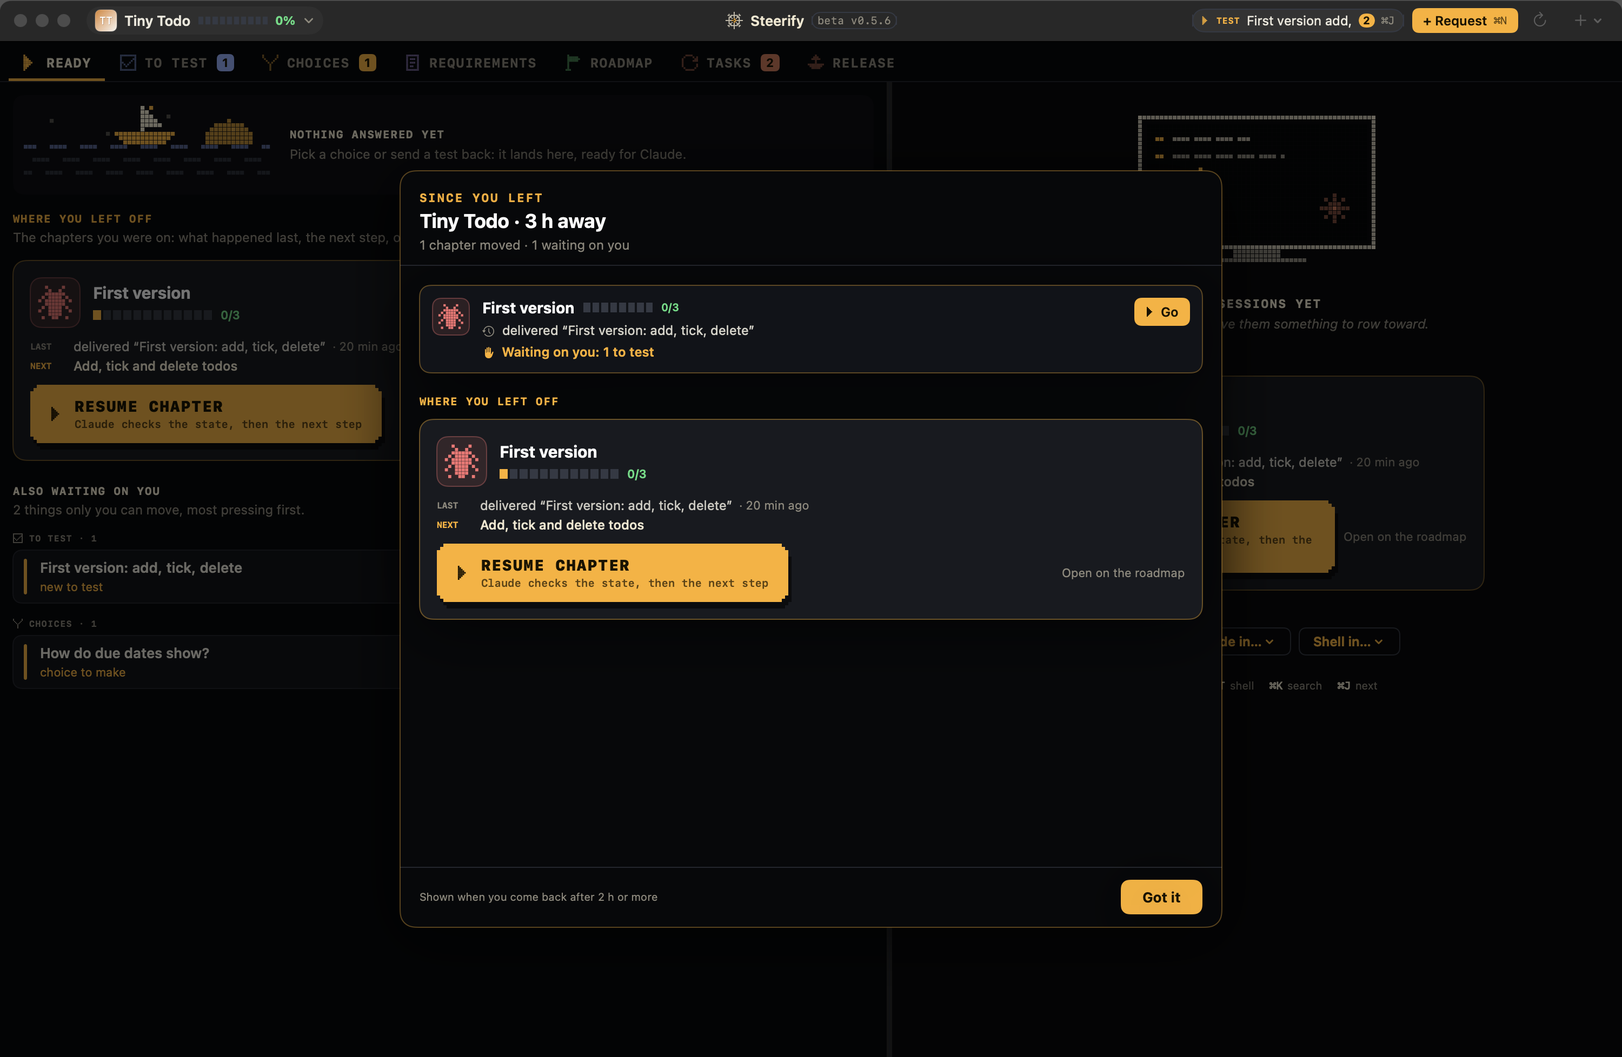
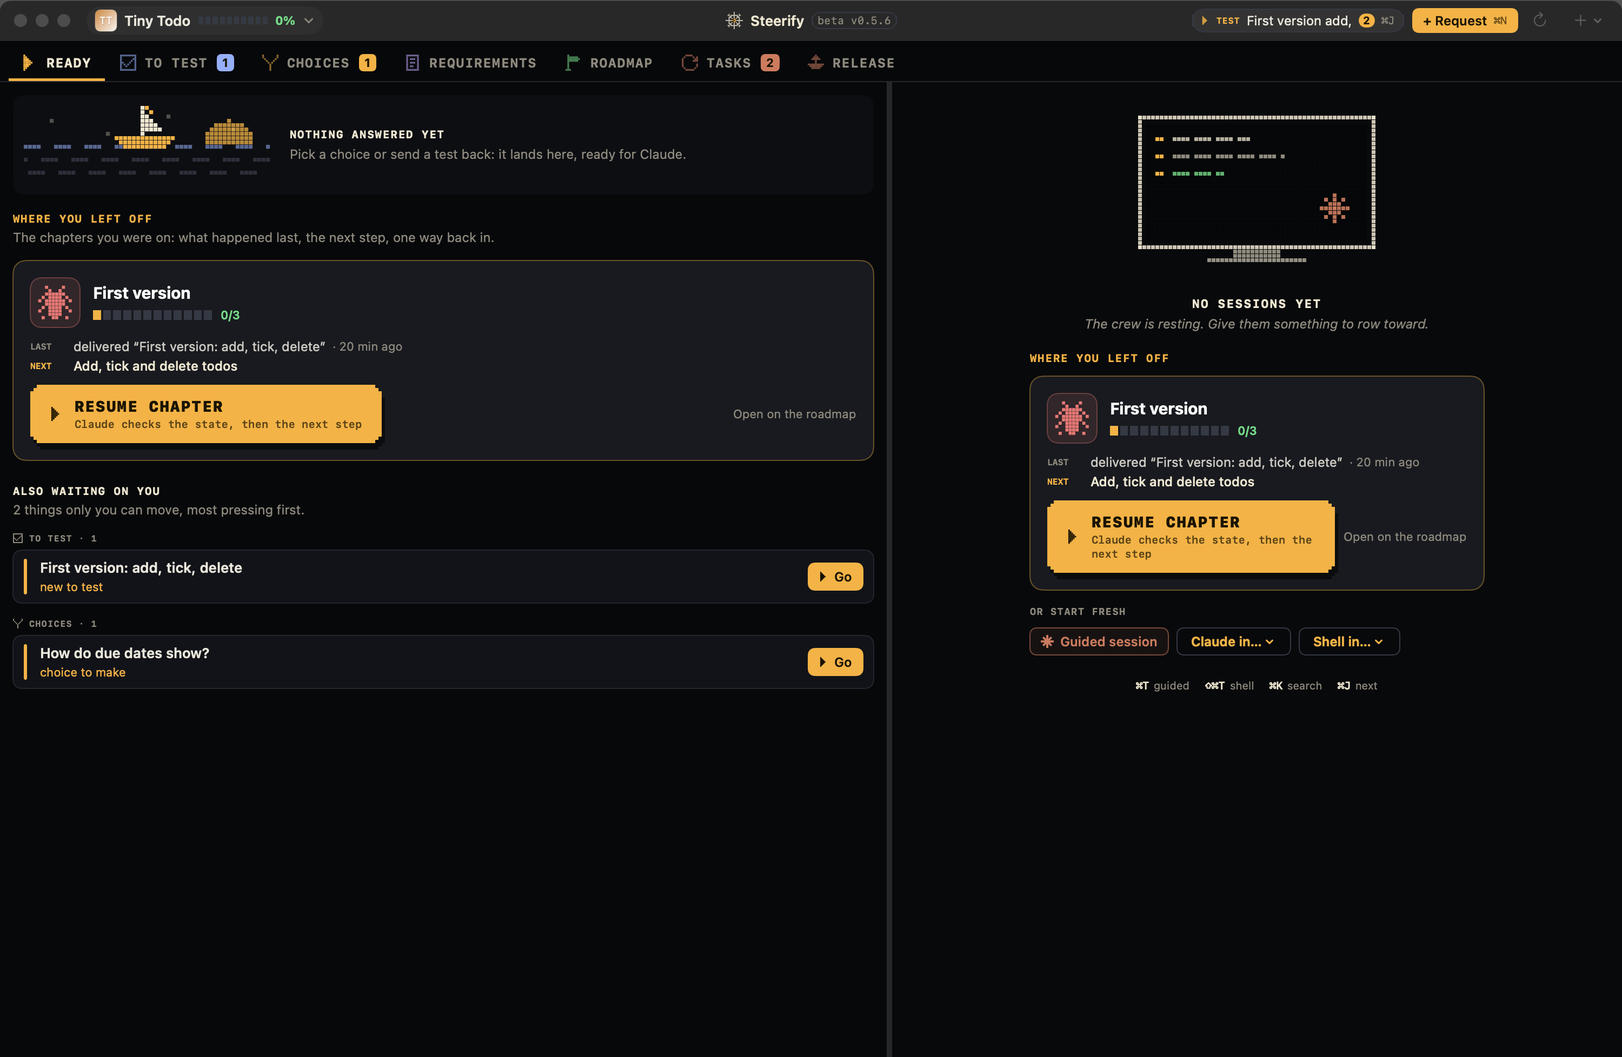
Steerify 0.5.6 (sync 13f6ef6)

diff --git a/Sources/SteerApp/BoardViews.swift b/Sources/SteerApp/BoardViews.swift
@@ -1118,17 +1118,16 @@ struct RoadTrackView: View {
     /// Done rows are folded by default (nil = auto: open only when the list shows no open row, e.g. the Done filter).
     @State private var showDone: Bool? = nil
     /// Chapters folded to one line, remembered per project (your focus: what you keep open stays open).
-    @AppStorage private var collapsedRaw: String
+    /// The click flips this view's own state (what redraws the row); ChapterFolds only remembers it. Driving the fold from
+    /// outside the view (@AppStorage, then a shared store) saved it but the roadmap list never redrew the row (21 Nov).
+    @State private var foldedNow: Bool? = nil
     init(board: BoardStore, track: String, items: [RoadItem]) {
         self.board = board; self.track = track; self.items = items
-        _collapsedRaw = AppStorage(wrappedValue: "", "collapsedChapters." + board.project.id, store: Prefs.store)
     }
-    private var collapsedSet: Set<String> { Set(collapsedRaw.split(separator: "\n").map(String.init)) }
-    private var collapsed: Bool { collapsedSet.contains(BoardFiles.slug(track)) }
+    private var collapsed: Bool { foldedNow ?? ChapterFolds.shared.isFolded(board.project.id, BoardFiles.slug(track)) }
     private func setCollapsed(_ on: Bool) {
-        var c = collapsedSet; let k = BoardFiles.slug(track)
-        if on { c.insert(k) } else { c.remove(k) }
-        withAnimation(.easeOut(duration: 0.15)) { collapsedRaw = c.sorted().joined(separator: "\n") }
+        foldedNow = on
+        ChapterFolds.shared.set(board.project.id, BoardFiles.slug(track), folded: on)
     }
     @ObservedObject private var snaps = MockSnapshots.shared
     private var info: Chapter? { board.chapters.first { $0.name == track } }
@@ -1243,33 +1242,42 @@ struct RoadTrackView: View {
         let all = board.roadmap.filter { $0.track == track }
         let done = all.filter { $0.status == "done" }.count
         let prog = ChapterProgress(all)
-        if collapsed { compact(all, prog) } else { full(all, done: done, prog) }
+        // One container with the scroll id: each branch carrying the same .id kept the lazy list showing the open card
+        // after a fold (21 Nov, "collapse chapter is not working").
+        VStack(spacing: 0) {
+            if collapsed { compact(all, prog) } else { full(all, done: done, prog) }
+        }
+        .id("track:" + BoardFiles.slug(track)).flash("track:" + BoardFiles.slug(track))
     }
 
     /// The chapter on one line: icon, title, progress, what is moving. Click to open it again.
     @ViewBuilder private func compact(_ all: [RoadItem], _ prog: ChapterProgress) -> some View {
         let open = all.filter { $0.status != "done" }
         let moving = open.filter { ["wip", "review", "you"].contains($0.status) }.count
+        // A real button (a tap gesture on the row did not always open it), the session chip beside it, not inside.
         HStack(spacing: 10) {
-            Image(systemName: "chevron.right").font(.system(size: S(9), weight: .bold)).foregroundStyle(Brand.mute)
-            AutoIcon(title: track, size: S(18), tile: true)
-            Text(track).font(.system(size: S(12.5), weight: .semibold)).foregroundStyle(Brand.cream).lineLimit(1)
-            if info?.draft == true { Pill(text: "draft", color: Brand.green) }
-            Spacer(minLength: 8)
-            if moving > 0 { Text("\(moving) moving").font(.system(size: S(11))).foregroundStyle(Brand.amber) }
-            Text(rolling ? "\(open.count) open" : "\(prog.coreDone)/\(prog.core.count) core").font(.system(size: S(11)).monospacedDigit())
-                .foregroundStyle(prog.coreReleased && !rolling ? Brand.green : Brand.mute)
-            ProgressView(value: Double(all.count - open.count), total: Double(max(all.count, 1))).progressViewStyle(.linear).tint(Brand.green).frame(width: S(60))
+            Button { setCollapsed(false) } label: {
+                HStack(spacing: 10) {
+                    Image(systemName: "chevron.right").font(.system(size: S(9), weight: .bold)).foregroundStyle(Brand.mute)
+                    AutoIcon(title: track, size: S(18), tile: true)
+                    Text(track).font(.system(size: S(12.5), weight: .semibold)).foregroundStyle(Brand.cream).lineLimit(1)
+                    if info?.draft == true { Pill(text: "draft", color: Brand.green) }
+                    Spacer(minLength: 8)
+                    if moving > 0 { Text("\(moving) moving").font(.system(size: S(11))).foregroundStyle(Brand.amber) }
+                    Text(rolling ? "\(open.count) open" : "\(prog.coreDone)/\(prog.core.count) core").font(.system(size: S(11)).monospacedDigit())
+                        .foregroundStyle(prog.coreReleased && !rolling ? Brand.green : Brand.mute)
+                    ProgressView(value: Double(all.count - open.count), total: Double(max(all.count, 1))).progressViewStyle(.linear).tint(Brand.green).frame(width: S(60))
+                }
+                .contentShape(Rectangle())
+            }
+            .buttonStyle(.plain)
+            .help("Open this chapter")
             SessionChip(projectId: board.project.id, ref: "track:" + BoardFiles.slug(track))
         }
         .padding(.horizontal, 12).padding(.vertical, 8)
         .frame(maxWidth: .infinity, alignment: .leading)
         .background(RoundedRectangle(cornerRadius: 9).fill(Brand.panel))
         .overlay(RoundedRectangle(cornerRadius: 9).stroke(Brand.line))
-        .contentShape(Rectangle())
-        .onTapGesture { setCollapsed(false) }
-        .help("Open this chapter")
-        .id("track:" + BoardFiles.slug(track)).flash("track:" + BoardFiles.slug(track))
     }
 
     @ViewBuilder private func full(_ all: [RoadItem], done: Int, _ prog: ChapterProgress) -> some View {
@@ -1322,7 +1330,6 @@ struct RoadTrackView: View {
             doneSection(all)
             }
         }
-        .id("track:" + BoardFiles.slug(track)).flash("track:" + BoardFiles.slug(track))
     }
 
     /// OKR header: the core is the headline (ring + bar); extras sit below, thinner and quieter, never holding the chapter back.

diff --git a/Sources/SteerApp/PerfBench.swift b/Sources/SteerApp/PerfBench.swift
@@ -1,0 +1,88 @@
+import AppKit
+
+/// Test hooks for speed: scroll the board and time every frame, click a point like a person. Test windows only.
+@MainActor
+enum PerfBench {
+    /// The board's list: the tallest scroll view in the window.
+    static func boardScroll(_ w: NSWindow) -> NSScrollView? {
+        var best: NSScrollView? = nil
+        func walk(_ v: NSView) {
+            if let s = v as? NSScrollView, let d = s.documentView,
+               d.frame.height > (best?.documentView?.frame.height ?? 0), s.frame.width > 400 { best = s }
+            v.subviews.forEach(walk)
+        }
+        if let root = w.contentView?.superview ?? w.contentView { walk(root) }
+        return best
+    }
+
+    static func scroll(_ w: NSWindow, out: String) {
+        guard let s = boardScroll(w), let doc = s.documentView else { NSLog("scroll-bench: no scroll view"); NSApp.terminate(nil); return }
+        let clip = s.contentView
+        var times: [Double] = []
+        var y: CGFloat = 0, down = true, laps = 0
+        func step() {
+            let maxY = max(0, doc.frame.height - clip.bounds.height)
+            y = down ? min(maxY, y + 60) : max(0, y - 60)
+            let t0 = CFAbsoluteTimeGetCurrent()
+            clip.scroll(to: NSPoint(x: 0, y: doc.isFlipped ? y : maxY - y))
+            s.reflectScrolledClipView(clip)
+            w.contentView?.layoutSubtreeIfNeeded()
+            w.displayIfNeeded()
+            times.append((CFAbsoluteTimeGetCurrent() - t0) * 1000)
+            if down && y >= maxY { down = false; laps += 1 }
+            else if !down && y <= 0 { laps += 1 }
+            if laps >= 2 || times.count > 2000 { finish(); return }
+            DispatchQueue.main.async { step() }
+        }
+        func finish() {
+            let sorted = times.sorted()
+            let avg = times.reduce(0, +) / Double(max(times.count, 1))
+            let p95 = sorted.isEmpty ? 0 : sorted[min(sorted.count - 1, Int(Double(sorted.count) * 0.95))]
+            let r: [String: Any] = ["frames": times.count, "avgMs": (avg * 10).rounded() / 10, "p95Ms": (p95 * 10).rounded() / 10,
+                                    "maxMs": ((sorted.last ?? 0) * 10).rounded() / 10, "height": Int(doc.frame.height)]
+            if let d = try? JSONSerialization.data(withJSONObject: r, options: [.sortedKeys]) { try? d.write(to: URL(fileURLWithPath: out)) }
+            NSLog("scroll-bench: \(r)")
+            NSApp.terminate(nil)
+        }
+        step()
+    }
+
+    static func click(_ w: NSWindow, x: Double, y: Double) {
+        guard let cv = w.contentView else { return }
+        let p = NSPoint(x: x, y: cv.bounds.height - y)          // content coords are bottom-up
+        func send(_ type: NSEvent.EventType) {
+            if let e = NSEvent.mouseEvent(with: type, location: p, modifierFlags: [], timestamp: ProcessInfo.processInfo.systemUptime,
+                                          windowNumber: w.windowNumber, context: nil, eventNumber: 0, clickCount: 1, pressure: 1) {
+                w.sendEvent(e)
+            }
+        }
+        // Press, then release 60 ms later, as a finger does (tap gestures ignore a press and release in the same instant).
+        send(.leftMouseDown)
+        DispatchQueue.main.asyncAfter(deadline: .now() + 0.06) { send(.leftMouseUp) }
+        NSLog("click: \(x), \(y)")
+    }
+}
+
+/// Chapters folded to one line on the roadmap, per project, remembered in the app's settings.
+@MainActor
+final class ChapterFolds {
+    static let shared = ChapterFolds()
+    /// Read from settings once per project.
+    private var folded: [String: Set<String>] = [:]
+    private func key(_ project: String) -> String { "collapsedChapters-" + project }
+    private func load(_ project: String) -> Set<String> {
+        if let f = folded[project] { return f }
+        // Older builds saved it under "collapsedChapters.<id>".
+        let raw = Prefs.store.string(forKey: key(project)) ?? Prefs.store.string(forKey: "collapsedChapters." + project) ?? ""
+        let s = Set(raw.split(separator: "\n").map(String.init))
+        folded[project] = s
+        return s
+    }
+    func isFolded(_ project: String, _ slug: String) -> Bool { load(project).contains(slug) }
+    func set(_ project: String, _ slug: String, folded on: Bool) {
+        var s = load(project)
+        if on { s.insert(slug) } else { s.remove(slug) }
+        folded[project] = s
+        Prefs.store.set(s.sorted().joined(separator: "\n"), forKey: key(project))
+    }
+}

diff --git a/Sources/SteerApp/Board.swift b/Sources/SteerApp/Board.swift
@@ -185,18 +185,26 @@ final class BoardStore: ObservableObject {
     @Published private(set) var loadedAt = Date.distantPast { didSet { memo = [:] } }
     /// Answers that are costly to work out and only change with the board (an item's thread, a session's stage).
     /// Emptied on every board change, and after 5 s for what lives outside the board files (the request log).
-    private var memo: [String: Any] = [:]
+    private var memo: [String: Any] = [:] { didSet { if memo.isEmpty { volatileMemo = [:] } } }
+    private var volatileMemo: [String: Any] = [:]
     private var memoAt = Date.distantPast
-    func memoized<T>(_ key: String, _ make: () -> T) -> T {
-        if Date().timeIntervalSince(memoAt) > 5 { memo = [:]; memoAt = Date() }
-        if let hit = memo[key] { return hit as! T }
-        let v = make(); memo[key] = v as Any; return v
+    /// `durable`: the answer depends only on the board files (and what the key names), so it stays until the board
+    /// changes. Otherwise it also expires after 5 s. Durable rows keep scrolling the roadmap cheap (21 Nov: the 5 s
+    /// expiry recomputed every row's thread and pictures while scrolling).
+    func memoized<T>(_ key: String, durable: Bool = false, _ make: () -> T) -> T {
+        if durable {
+            if let hit = memo[key] { return hit as! T }
+            let v = make(); memo[key] = v as Any; return v
+        }
+        if Date().timeIntervalSince(memoAt) > 5 { volatileMemo = [:]; memoAt = Date() }
+        if let hit = volatileMemo[key] { return hit as! T }
+        let v = make(); volatileMemo[key] = v as Any; return v
     }
     @Published private(set) var links: [SessionLink] = [] { didSet { memo = [:] } }
     /// Local AI: roadmap proposals read from recent commits (LocalAI.swift), never applied by themselves.
-    @Published var commitProposals: [RoadProposal] = []
+    @Published var commitProposals: [RoadProposal] = [] { didSet { memo = [:] } }
     /// Local AI: key results a recent Claude session is working on (LocalAI.swift), never applied by themselves.
-    @Published var sessionProposals: [RoadProposal] = []
+    @Published var sessionProposals: [RoadProposal] = [] { didSet { memo = [:] } }
     var commitCheckedAt = Date.distantPast
     private var manifestTime: Date?
 
@@ -719,6 +727,9 @@ extension BoardStore {
 
     /// Status the roadmap item should have, from its linked To test deliveries.
     func consolidation(track: String) -> [RoadProposal] {
+        memoized("consolidation:" + track, durable: true) { computeConsolidation(track: track) }
+    }
+    private func computeConsolidation(track: String) -> [RoadProposal] {
         let order = ["todo": 0, "you": 1, "wip": 2, "review": 3, "done": 4]
         var out: [RoadProposal] = []
         for r in roadmap where r.track == track && r.status != "done" {

diff --git a/Sources/SteerApp/FeatureShots.swift b/Sources/SteerApp/FeatureShots.swift
@@ -23,7 +23,18 @@ struct FeatureMedia {
 
 extension BoardStore {
     func ships(forRoad r: RoadItem) -> [ShipItem] {
-        ships.filter { $0.roads.contains { $0 == r.text || BoardFiles.slug($0) == r.id } }
+        // Index built once per board: road text and its slug → deliveries (was a slug of every delivery's text per row).
+        let ix: [String: [Int]] = memoized("shipsByRoad", durable: true) {
+            var m: [String: [Int]] = [:]
+            for (i, s) in ships.enumerated() {
+                for rd in s.roads {
+                    for k in Set(["t:" + rd, "s:" + BoardFiles.slug(rd)]) where m[k]?.last != i { m[k, default: []].append(i) }
+                }
+            }
+            return m
+        }
+        let hits = Set((ix["t:" + r.text] ?? []) + (ix["s:" + r.id] ?? []))
+        return ships.indices.filter(hits.contains).map { ships[$0] }
     }
     func ships(forReq id: String) -> [ShipItem] { ships.filter { $0.reqs.contains(id) } }
 
@@ -37,7 +48,7 @@ extension BoardStore {
     }
 
     func media(road r: RoadItem, snaps: Int) -> FeatureMedia {
-        memoized("media:road:\(r.id)#\(snaps)") {
+        memoized("media:road:\(r.id)#\(snaps)", durable: true) {
             let linked = ships(forRoad: r)
             var choiceIds = Set(thread(of: "road:" + r.id).filter { $0.hasPrefix("choice:") }.map { String($0.dropFirst(7)) })
             // Choices of the request this key result came from, only when the request made just this one item
@@ -54,7 +65,7 @@ extension BoardStore {
 
     /// A whole chapter: the design of its own choices (asked from its request), then the newest test pictures of its key results.
     func media(chapter name: String, snaps: Int) -> FeatureMedia {
-        memoized("media:track:\(name)#\(snaps)") {
+        memoized("media:track:\(name)#\(snaps)", durable: true) {
             let items = roadmap.filter { $0.track == name }
             let linked = ships.filter { s in s.roads.contains { rd in items.contains { $0.text == rd || $0.id == BoardFiles.slug(rd) } } }
             let origins = Set(chapters.filter { $0.name == name }.compactMap { $0.request.map { "request:" + $0 } } + ["track:" + BoardFiles.slug(name)])
@@ -67,7 +78,7 @@ extension BoardStore {
     }
 
     func media(req r: Requirement, snaps: Int) -> FeatureMedia {
-        memoized("media:req:\(r.id)#\(snaps)") {
+        memoized("media:req:\(r.id)#\(snaps)", durable: true) {
             let linked = ships(forReq: r.id)
             var choiceIds = Set(linked.flatMap(\.choices))
             for d in decisions where d.origin == "req:" + r.id || d.why.contains("requirement \(r.id)") { choiceIds.insert(d.id) }

diff --git a/Sources/SteerApp/SteerApp.swift b/Sources/SteerApp/SteerApp.swift
@@ -80,6 +80,32 @@ final class AppDelegate: NSObject, NSApplicationDelegate {
                 if then == "leave" { DispatchQueue.main.asyncAfter(deadline: .now() + 0.1) { Prefs.store.set(BoardTab.road.rawValue, forKey: Prefs.boardTab) } }
             }
         }
+        // Test hook: `--click <x> <y> [seconds]`: a real mouse click at that point of the window (points, from the
+        // top-left of the content), as a person would (no Accessibility permission needed). Repeatable.
+        for (i, s) in a.enumerated() where s == "--click" && i + 2 < a.count {
+            guard let x = Double(a[i + 1]), let y = Double(a[i + 2]) else { continue }
+            let at = (i + 3 < a.count ? Double(a[i + 3]) : nil) ?? 4
+            DispatchQueue.main.asyncAfter(deadline: .now() + at) { PerfBench.click(w, x: x, y: y) }
+        }
+        // Test hook: `--shot <file.png> [seconds]`: like --snapshot, but the window stays visible (an invisible window
+        // is not redrawn after a click, so live changes need this one).
+        if let i = a.firstIndex(of: "--shot"), i + 1 < a.count {
+            let out = a[i + 1], at = (i + 2 < a.count ? Double(a[i + 2]) : nil) ?? 6
+            DispatchQueue.main.asyncAfter(deadline: .now() + at) {
+                let v = w.contentView?.superview ?? w.contentView!
+                if let rep = v.bitmapImageRepForCachingDisplay(in: v.bounds) {
+                    v.cacheDisplay(in: v.bounds, to: rep)
+                    try? rep.representation(using: .png, properties: [:])?.write(to: URL(fileURLWithPath: out))
+                }
+                NSApp.terminate(nil)
+            }
+        }
+        // Test hook: `--scroll-bench <out.json> [seconds]`: scroll the board list top → bottom → top in 60 pt steps,
+        // timing each frame (layout + draw), then write {frames, avgMs, p95Ms, maxMs} and quit. The roadmap's scroll budget.
+        if let i = a.firstIndex(of: "--scroll-bench"), i + 1 < a.count {
+            let out = a[i + 1], at = (i + 2 < a.count ? Double(a[i + 2]) : nil) ?? 6
+            DispatchQueue.main.asyncAfter(deadline: .now() + at) { PerfBench.scroll(w, out: out) }
+        }
         SteerApp.applyTestArgs(m)
         m.startAutomation()
     }

diff --git a/Sources/SteerApp/PixelIcons.swift b/Sources/SteerApp/PixelIcons.swift
@@ -100,8 +100,14 @@ enum PixelArt {
 
     /// Apple Intelligence's on-device model, when it is on and ready: reads the whole title and picks from the set.
     /// Falls back silently (word model) on Macs without it. Results are cached like the rest.
+    /// What is already known for this title (Apple Intelligence's pick, else the word model's), without working anything out.
+    static func cached(_ title: String) -> String? { cache["ai|" + title] ?? cache[title] }
+    /// Titles Apple Intelligence was already asked about without a usable answer (this run): not asked again on every appear.
+    private static var refused = Set<String>()
     static func refine(_ title: String) async -> String? {
         if let c = cache["ai|" + title] { return c }
+        if refused.contains(title) { return nil }
+        refused.insert(title)
         guard #available(macOS 26, *), case .available = SystemLanguageModel.default.availability else { return nil }
         let names = icons.keys.sorted()
         let list = names.map { "\($0): \(icons[$0]!.words.prefix(4).joined(separator: ", "))" }.joined(separator: "\n")
@@ -156,10 +162,12 @@ struct AutoIcon: View {
     var tile = false
     @State private var name: String?
     var body: some View {
-        ArtIcon(name: name ?? "sparkle", size: size, tile: tile)
+        ArtIcon(name: name ?? PixelArt.cached(title) ?? "sparkle", size: size, tile: tile)
             .task(id: title) {
-                name = PixelArt.pick(title)                                   // instant: word model
-                if let better = await PixelArt.refine(title) { name = better } // Apple Intelligence, when ready
+                // Only set when it changes: a row scrolling back into view must not redraw for the same icon.
+                let now = PixelArt.cached(title) ?? PixelArt.pick(title)                  // instant: remembered, else word model
+                if name != now { name = now }
+                if let better = await PixelArt.refine(title), better != name { name = better }  // Apple Intelligence, when ready
             }
     }
 }

diff --git a/Sources/SteerApp/SessionFlow.swift b/Sources/SteerApp/SessionFlow.swift
@@ -36,7 +36,18 @@ extension BoardStore {
 
     /// Every board item of the same feature as `ref`: its key result(s), the deliveries for them, the choices they built,
     /// the requests that became them. Includes `ref` itself.
-    func thread(of ref: String) -> Set<String> { memoized("thread:" + ref) { computeThread(of: ref) } }
+    /// A request's thread reads the request log (outside the board): it expires; every other thread lasts until the board changes.
+    func thread(of ref: String) -> Set<String> { memoized("thread:" + ref, durable: !ref.hasPrefix("request:")) { computeThread(of: ref) } }
+    /// Delivery road text → "road:<id>", built once per board (it was a scan of the whole roadmap per delivery per row).
+    private func roadRefIndex(_ text: String) -> String? {
+        let ix: [String: String] = memoized("roadRefIndex", durable: true) {
+            var m: [String: String] = [:]
+            for r in roadmap.reversed() { m[r.text] = "road:" + r.id }   // first match wins, as before
+            for r in roadmap.reversed() { m["#slug:" + r.id] = "road:" + r.id }
+            return m
+        }
+        return ix["#slug:" + BoardFiles.slug(text)] ?? ix[text]
+    }
     private func computeThread(of ref: String) -> Set<String> {
         let roads = roads(of: ref)
         var out: Set<String> = [ref]
@@ -48,8 +59,7 @@ extension BoardStore {
         }
         guard !roads.isEmpty else { return out }
         out.formUnion(roads)
-        for s in ships where !roads.isDisjoint(with: Set(s.roads.compactMap { r in
-            roadmap.first { $0.id == BoardFiles.slug(r) || $0.text == r }.map { "road:" + $0.id } })) {
+        for s in ships where !roads.isDisjoint(with: Set(s.roads.compactMap(roadRefIndex))) {
             out.insert("test:" + s.id)
             out.formUnion(s.choices.map { "choice:" + $0 })
         }

diff --git a/Sources/SteerApp/Settings.swift b/Sources/SteerApp/Settings.swift
@@ -4,8 +4,9 @@ import AppKit
 /// User preferences, all remembered in UserDefaults.
 enum Prefs {
     /// Test instances (`--background`) get their own settings, so they never change tabs or sizes in the user's window.
+    /// STEERIFY_PREFS_SUITE gives a test run settings of its own (two sessions testing at once never switch each other's tab).
     static let store: UserDefaults = CommandLine.arguments.contains("--background")
-        ? UserDefaults(suiteName: "com.frenkfiore.steerify.tests")! : .standard
+        ? UserDefaults(suiteName: ProcessInfo.processInfo.environment["STEERIFY_PREFS_SUITE"] ?? "com.frenkfiore.steerify.tests")! : .standard
     static let fontPreset = "fontPreset"            // small | medium | large
     static let terminalFraction = "terminalFraction" // share of the width for the terminal (default 0.30)
     static let sidebarVisible = "sidebarVisible"
